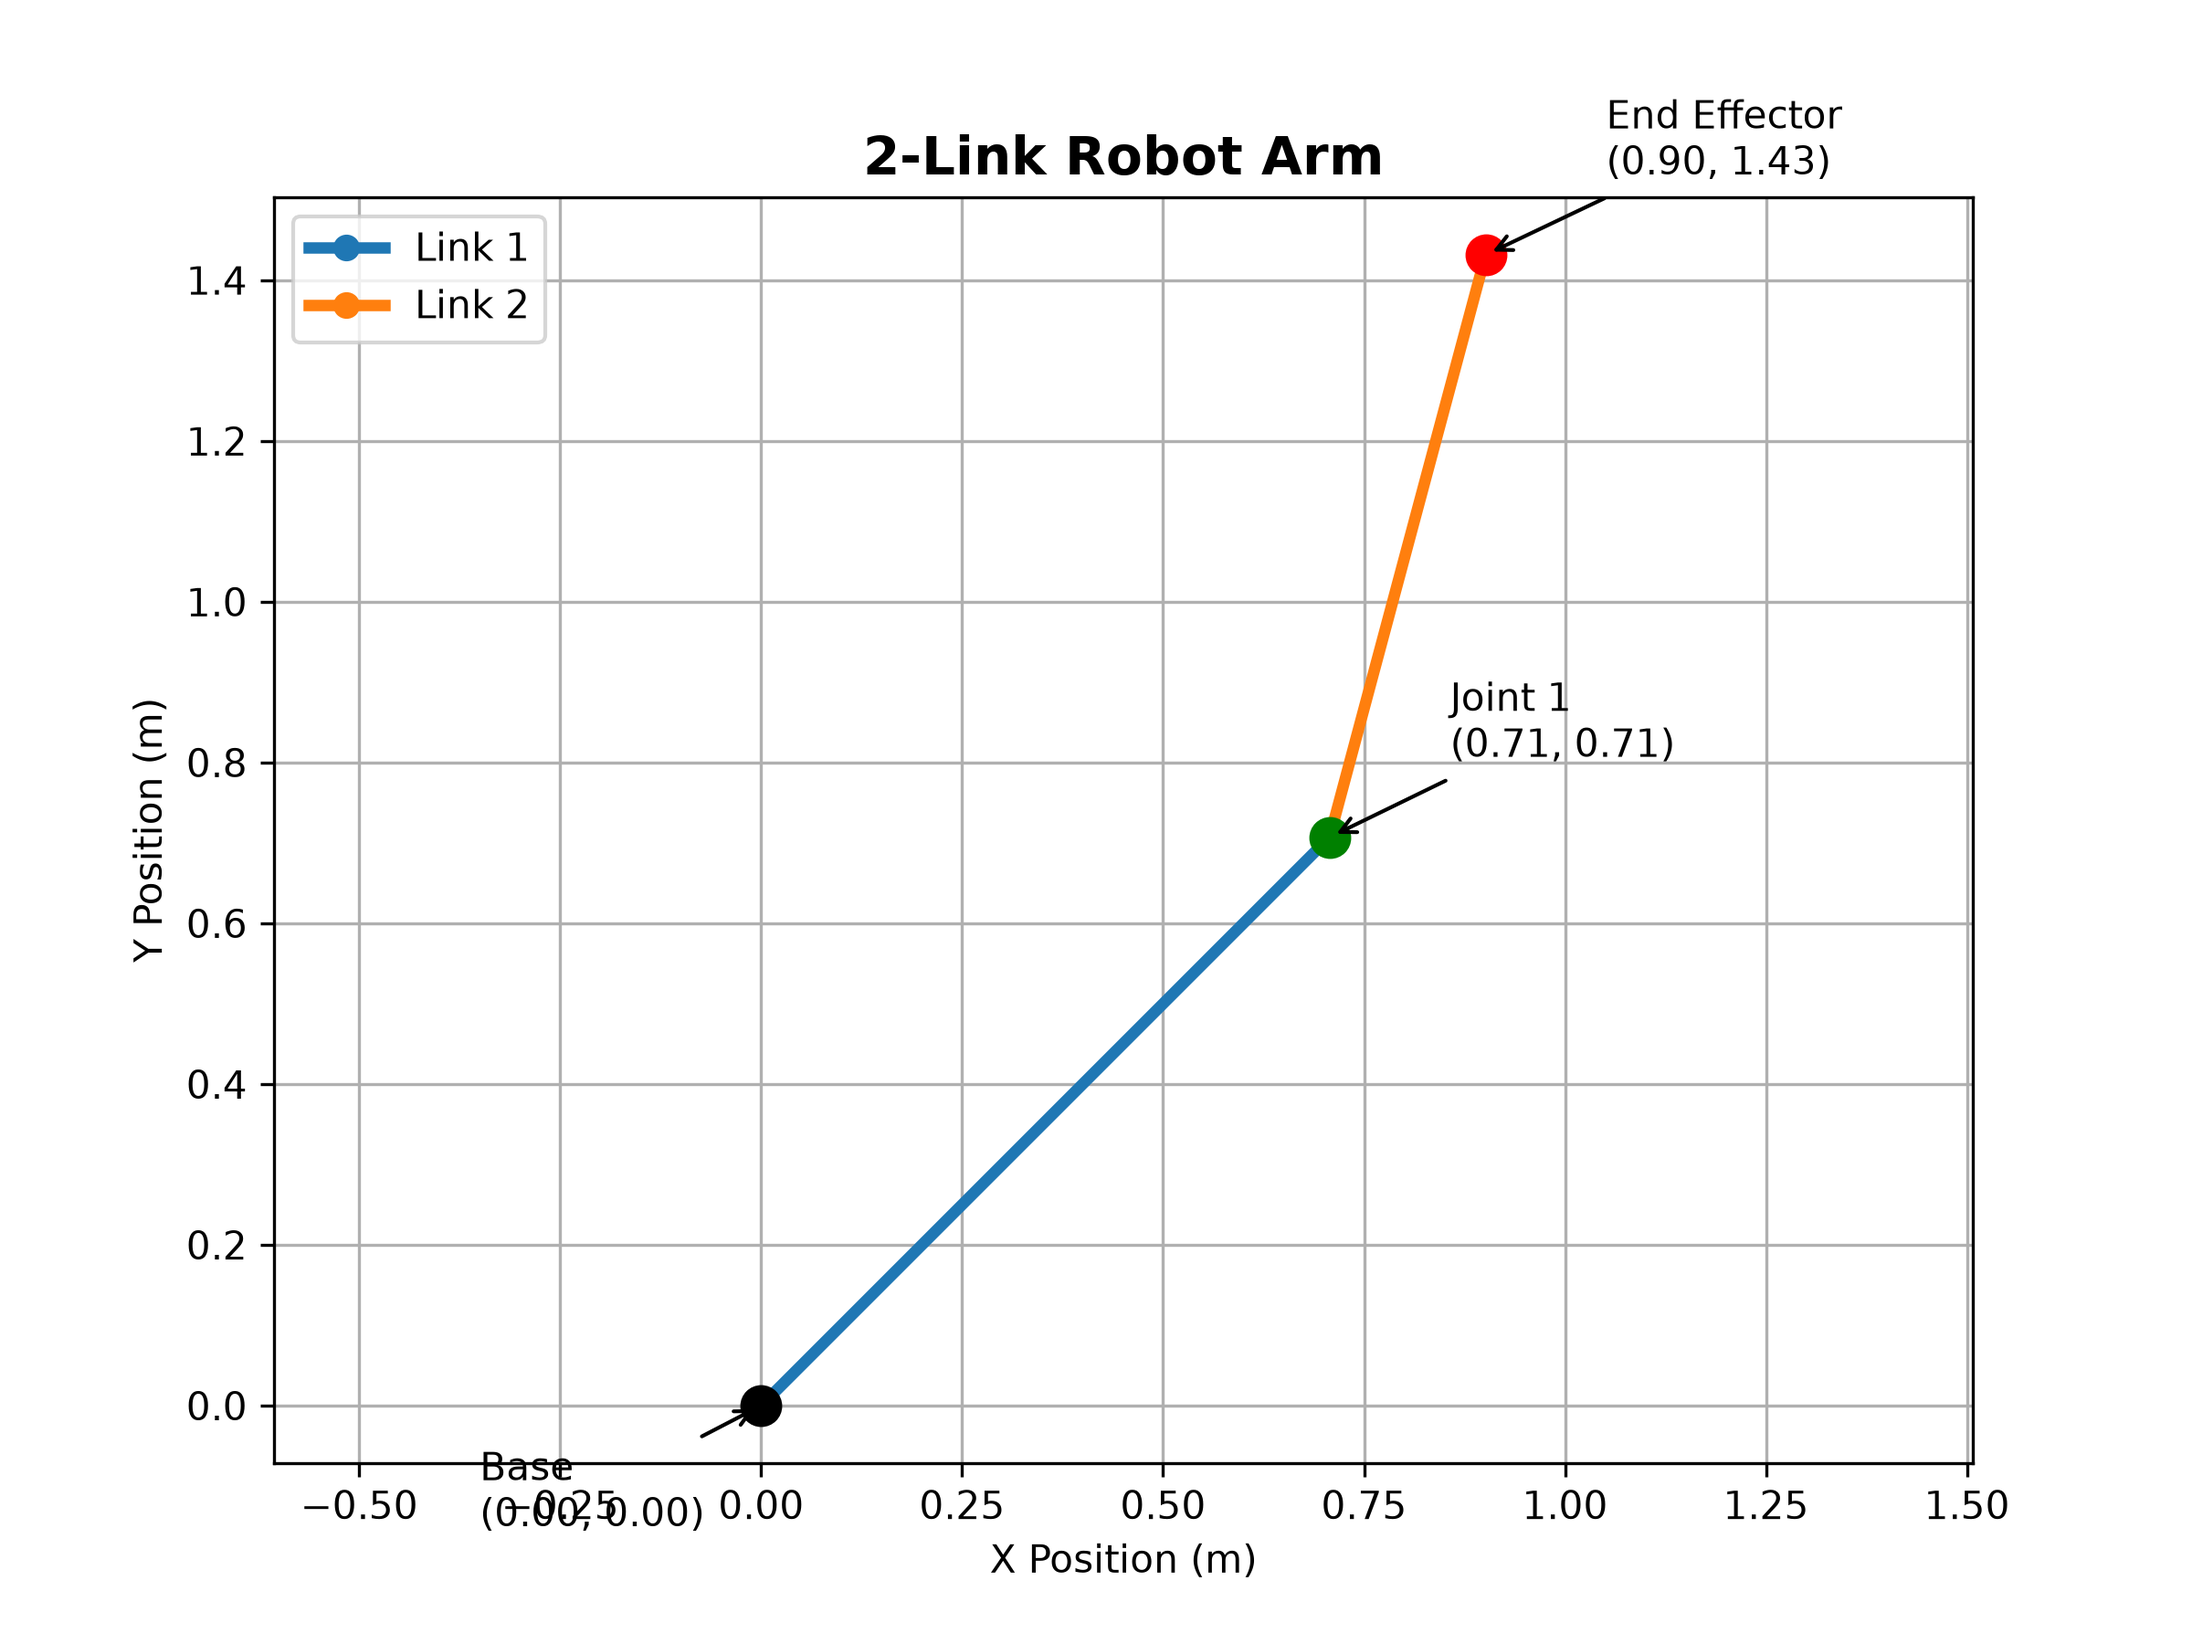
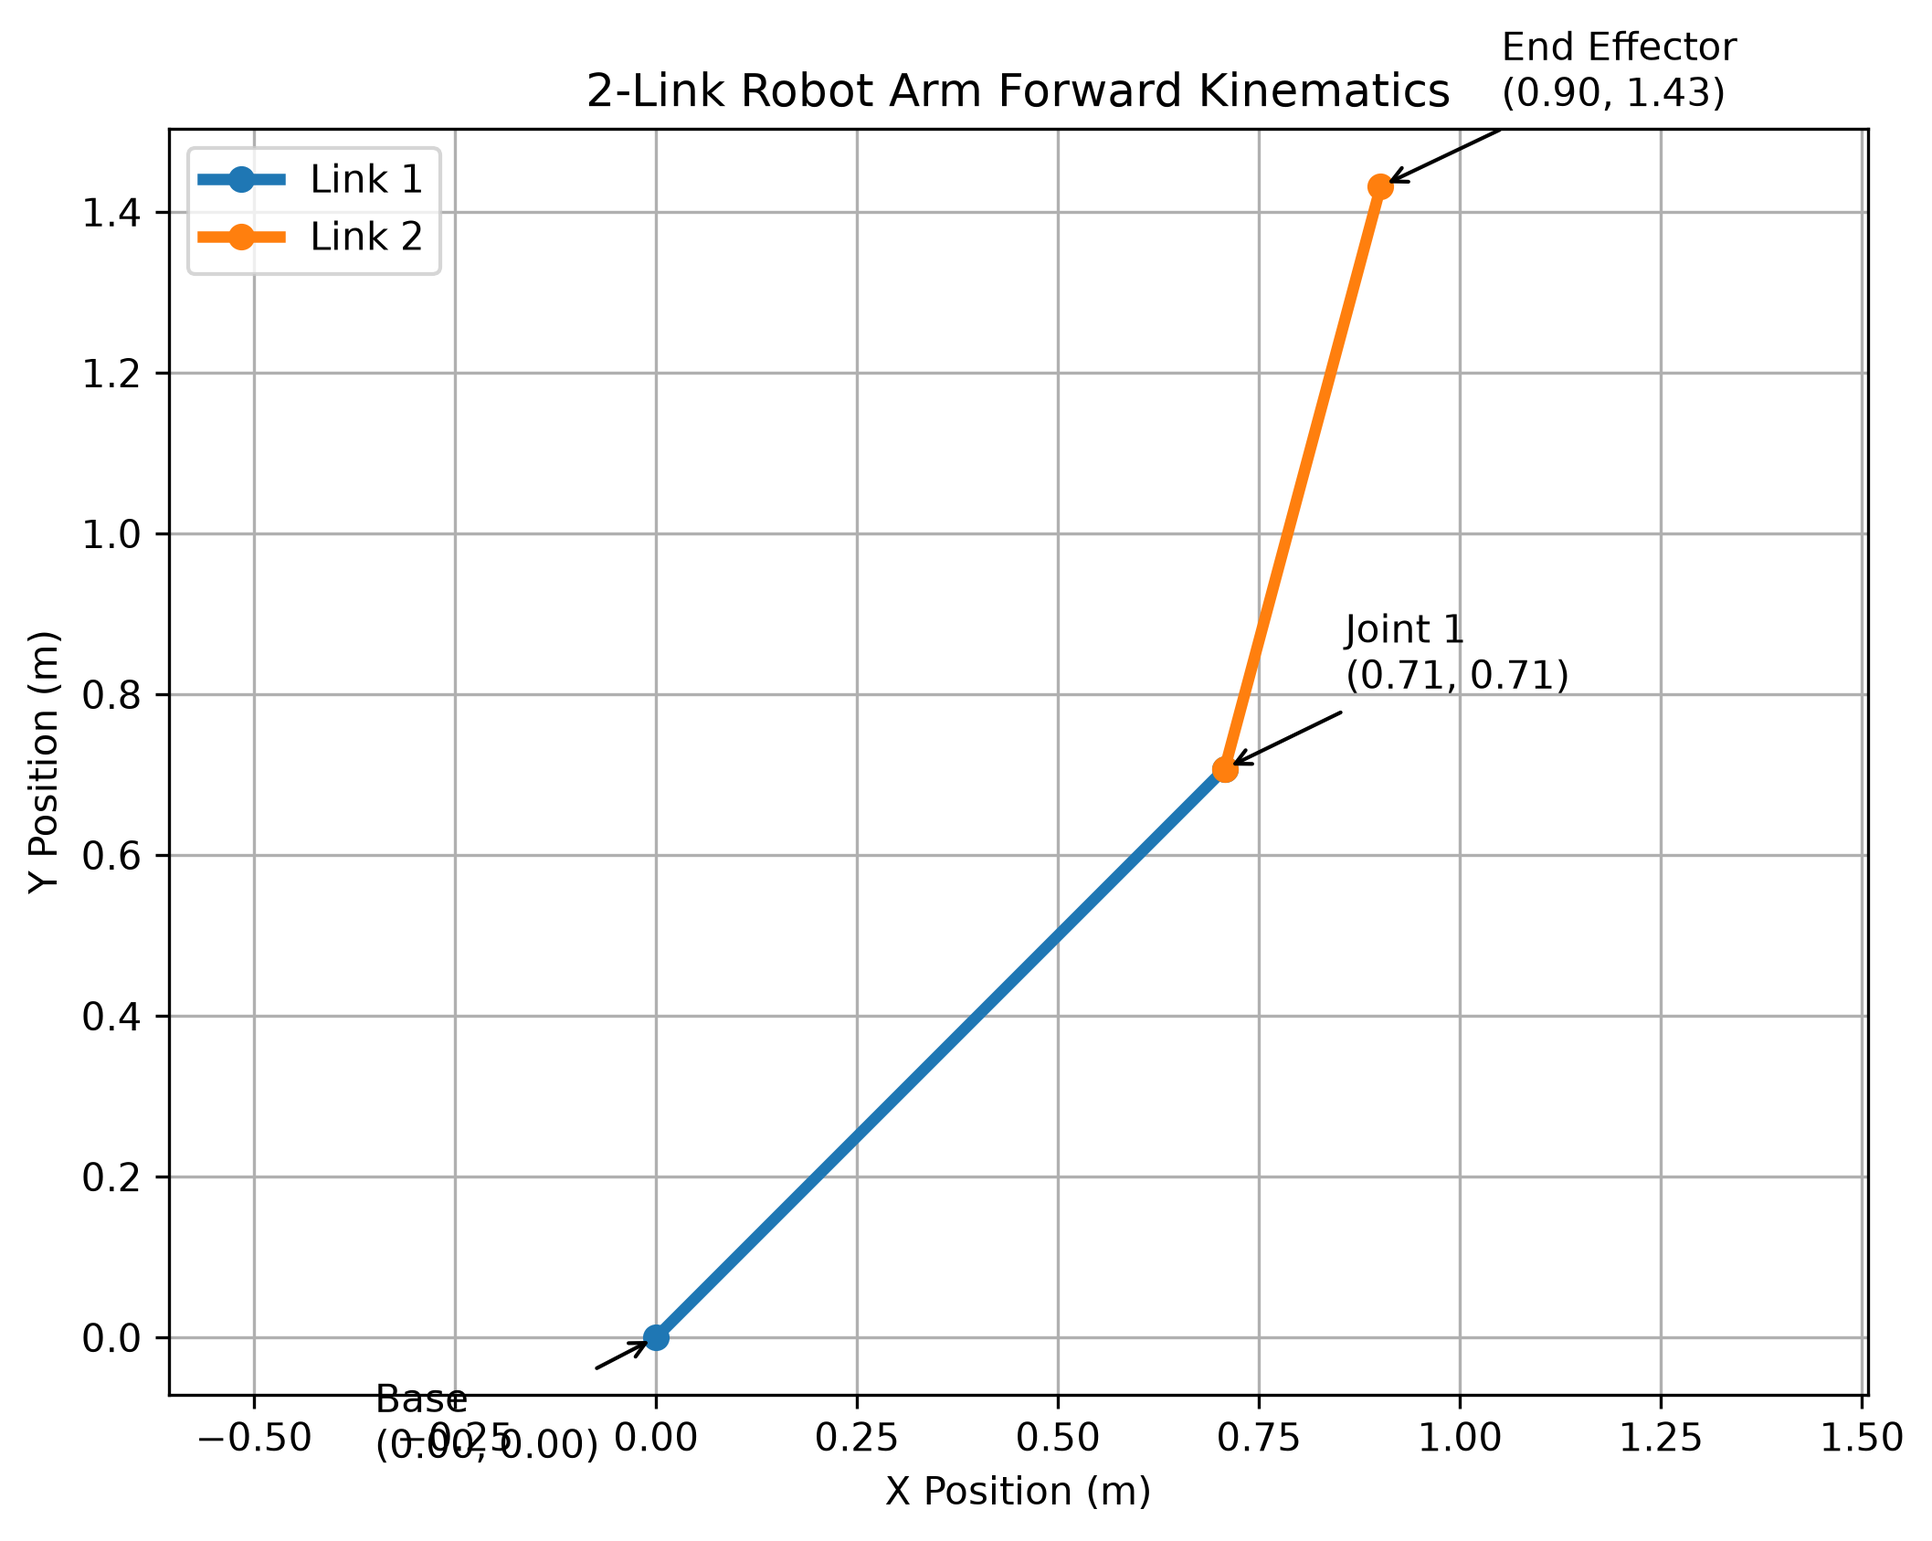
Refactor visualisation to reuse forward kinematics

diff --git a/src/visualisation.py b/src/visualisation.py
@@ -1,72 +1,81 @@
-import math
+import os
 import matplotlib.pyplot as plt
 
-# Link lengths
-L1 = 1.0
-L2 = 0.75
+from forward_kinematics import forward_kinematics
 
-# Joint angles in degrees
-theta1 = math.radians(45)
-theta2 = math.radians(30)
 
-# Base coordinates
-x0, y0 = 0, 0
+def plot_robot_arm(theta1_deg=45, theta2_deg=30, L1=1.0, L2=0.75):
+    """
+    Plot and save the configuration of a 2-link planar robotic arm.
+    """
 
-# Joint 1 coordinates
-x1 = L1 * math.cos(theta1)
-y1 = L1 * math.sin(theta1)
+    points = forward_kinematics(
+        theta1_deg=theta1_deg,
+        theta2_deg=theta2_deg,
+        L1=L1,
+        L2=L2,
+    )
 
-# End-effector coordinates
-x2 = x1 + L2 * math.cos(theta1 + theta2)
-y2 = y1 + L2 * math.sin(theta1 + theta2)
+    x0, y0 = points["base"]
+    x1, y1 = points["joint_1"]
+    x2, y2 = points["end_effector"]
 
-# Create figure
-fig, ax = plt.subplots(figsize=(8, 6))
+    fig, ax = plt.subplots(figsize=(8, 6))
 
-# Plot links with different colours
-ax.plot([x0, x1], [y0, y1], marker="o", linewidth=3, label="Link 1")
-ax.plot([x1, x2], [y1, y2], marker="o", linewidth=3, label="Link 2")
+    ax.plot(
+        [x0, x1],
+        [y0, y1],
+        marker="o",
+        linewidth=3,
+        label="Link 1",
+    )
 
-# Plot joints with custom colours
-ax.plot(x0, y0, "o", color="black", markersize=10)
-ax.plot(x1, y1, "o", color="green", markersize=10)
-ax.plot(x2, y2, "o", color="red", markersize=10)
+    ax.plot(
+        [x1, x2],
+        [y1, y2],
+        marker="o",
+        linewidth=3,
+        label="Link 2",
+    )
 
-# Label the joints and display coordinates
-ax.annotate(
-    f"Base\n({x0:.2f}, {y0:.2f})",
-    xy=(x0, y0),
-    xytext=(-0.35, -0.15),
-    arrowprops=dict(arrowstyle="->"),
-    fontsize=10,
-)
+    ax.annotate(
+        f"Base\n({x0:.2f}, {y0:.2f})",
+        xy=(x0, y0),
+        xytext=(-0.35, -0.15),
+        arrowprops=dict(arrowstyle="->"),
+    )
 
-ax.annotate(
-    f"Joint 1\n({x1:.2f}, {y1:.2f})",
-    xy=(x1, y1),
-    xytext=(x1 + 0.15, y1 + 0.10),
-    arrowprops=dict(arrowstyle="->"),
-    fontsize=10,
-)
+    ax.annotate(
+        f"Joint 1\n({x1:.2f}, {y1:.2f})",
+        xy=(x1, y1),
+        xytext=(x1 + 0.15, y1 + 0.10),
+        arrowprops=dict(arrowstyle="->"),
+    )
 
-ax.annotate(
-    f"End Effector\n({x2:.2f}, {y2:.2f})",
-    xy=(x2, y2),
-    xytext=(x2 + 0.15, y2 + 0.10),
-    arrowprops=dict(arrowstyle="->"),
-    fontsize=10,
-)
+    ax.annotate(
+        f"End Effector\n({x2:.2f}, {y2:.2f})",
+        xy=(x2, y2),
+        xytext=(x2 + 0.15, y2 + 0.10),
+        arrowprops=dict(arrowstyle="->"),
+    )
 
-# Formatting
-ax.set_title("2-Link Robot Arm", fontsize=14, fontweight="bold")
-ax.set_xlabel("X Position (m)")
-ax.set_ylabel("Y Position (m)")
-ax.grid(True)
-ax.axis("equal")
-ax.legend()
+    ax.set_title("2-Link Robot Arm Forward Kinematics")
+    ax.set_xlabel("X Position (m)")
+    ax.set_ylabel("Y Position (m)")
+    ax.grid(True)
+    ax.axis("equal")
+    ax.legend()
 
-# Save figure
-plt.savefig("images/robot_arm_visualisation.png", dpi=300)
+    os.makedirs("images", exist_ok=True)
 
-# Show figure
-plt.show()
+    fig.savefig(
+        "images/robot_arm_visualisation.png",
+        dpi=300,
+        bbox_inches="tight",
+    )
+
+    plt.show()
+
+
+if __name__ == "__main__":
+    plot_robot_arm()

diff --git a/tests/test_kinematics.py b/tests/test_kinematics.py
@@ -1,0 +1,43 @@
+import pytest
+from src.forward_kinematics import forward_kinematics
+
+
+def test_forward_kinematics_zero_angles():
+    points = forward_kinematics(0, 0)
+
+    x, y = points["end_effector"]
+
+    assert x == pytest.approx(1.75)
+    assert y == pytest.approx(0.0)
+
+
+def test_forward_kinematics_vertical_arm():
+    points = forward_kinematics(90, 0)
+
+    x, y = points["end_effector"]
+
+    assert x == pytest.approx(0.0, abs=1e-9)
+    assert y == pytest.approx(1.75)
+
+
+def test_forward_kinematics_folded_arm():
+    points = forward_kinematics(0, 180)
+
+    x, y = points["end_effector"]
+
+    assert x == pytest.approx(0.25)
+    assert y == pytest.approx(0.0, abs=1e-9)
+
+
+def test_forward_kinematics_known_position():
+    points = forward_kinematics(
+        theta1_deg=45,
+        theta2_deg=30,
+        L1=1.0,
+        L2=0.75,
+    )
+
+    x, y = points["end_effector"]
+
+    assert x == pytest.approx(0.901221, abs=1e-6)
+    assert y == pytest.approx(1.431551, abs=1e-6)
